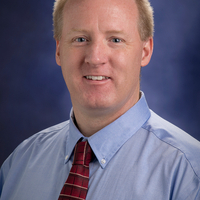
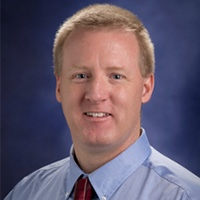
Split speakers and panelists into separate lists and align names with photos
Use two data lists (invited_speakers, panelists) rendered through a shared
speaker-cards include. Render names as h4 so the site's h3 top margin no
longer pushes them below the headshot, and line the letter tops up with
the photo edge. Use Eric Nielsen's uncropped AIAA headshot.

diff --git a/_includes/home-sections.html b/_includes/home-sections.html
@@ -52,19 +52,18 @@
 </div>
 
 ## Invited speakers / panelists
-{% if site.data.people.featured_speakers.size > 0 %}
-<div class="speaker-list">
-{% for speaker in site.data.people.featured_speakers %}
-<div class="speaker">
-{% if speaker.photo and speaker.photo != "" %}<img class="speaker__photo" src="{{ speaker.photo | relative_url }}" alt="Photo of {{ speaker.name | escape }}" width="120" height="120" loading="lazy" decoding="async">{% else %}<div class="speaker__photo speaker__photo--placeholder" aria-hidden="true">{{ speaker.name | split: " " | first | slice: 0 }}{{ speaker.name | split: " " | last | slice: 0 }}</div>{% endif %}
-<div class="speaker__text">
-<h3 class="speaker__name">{{ speaker.name | escape }}</h3>
-<p class="speaker__meta">{% if speaker.role %}<span class="speaker__role">{{ speaker.role | escape }}</span> · {% endif %}{{ speaker.affiliation | escape }}{% if speaker.title %} — {{ speaker.title | escape }}{% endif %}</p>
-{% for para in speaker.bio %}<p class="speaker__bio">{{ para | escape }}</p>
-{% endfor %}</div>
-</div>
-{% endfor %}
-</div>
+{% assign invited = site.data.people.invited_speakers %}{% assign panel = site.data.people.panelists %}
+{% if invited.size > 0 or panel.size > 0 %}
+{% if invited.size > 0 %}
+### Invited speakers
+
+{% include speaker-cards.html speakers=invited %}
+{% endif %}
+{% if panel.size > 0 %}
+### Panelists
+
+{% include speaker-cards.html speakers=panel %}
+{% endif %}
 {% else %}
 **TBD** 
 {% endif %}

diff --git a/assets/main.scss b/assets/main.scss
@@ -335,7 +335,7 @@ html {
   font-size: 0.9em;
 }
 
-/* Invited speakers / panelists — see featured_speakers in _data/people.yml */
+/* Invited speakers / panelists — see invited_speakers and panelists in _data/people.yml */
 .workshop-home .speaker-list {
   margin: 1rem 0 1.5rem;
 }
@@ -377,19 +377,17 @@ html {
   min-width: 0;
 }
 
+/* h4 on purpose: the site's `.post-content h3` rule adds a top margin that pushes the name below the photo. The negative margin lines up the letter tops with the photo's top edge. */
 .workshop-home .speaker__name {
-  margin: 0;
+  margin: -0.25rem 0 0;
   font-size: 1.15rem;
+  font-weight: 600;
   line-height: 1.3;
 }
 
 .workshop-home .speaker__meta {
   margin: 0.15rem 0 0.6rem;
   color: #555;
-}
-
-.workshop-home .speaker__role {
-  font-weight: 600;
 }
 
 .workshop-home .speaker__bio {
@@ -404,6 +402,10 @@ html {
   .workshop-home .speaker {
     flex-direction: column;
     gap: 0.75rem;
+  }
+
+  .workshop-home .speaker__name {
+    margin-top: 0;
   }
 }
 

diff --git a/_includes/speaker-cards.html b/_includes/speaker-cards.html
@@ -1,0 +1,12 @@
+<div class="speaker-list">
+{% for speaker in include.speakers %}
+<div class="speaker">
+{% if speaker.photo and speaker.photo != "" %}<img class="speaker__photo" src="{{ speaker.photo | relative_url }}" alt="Photo of {{ speaker.name | escape }}" width="120" height="120" loading="lazy" decoding="async">{% else %}<div class="speaker__photo speaker__photo--placeholder" aria-hidden="true">{{ speaker.name | split: " " | first | slice: 0 }}{{ speaker.name | split: " " | last | slice: 0 }}</div>{% endif %}
+<div class="speaker__text">
+<h4 class="speaker__name">{{ speaker.name | escape }}</h4>
+<p class="speaker__meta">{{ speaker.affiliation | escape }}{% if speaker.title %} — {{ speaker.title | escape }}{% endif %}</p>
+{% for para in speaker.bio %}<p class="speaker__bio">{{ para | escape }}</p>
+{% endfor %}</div>
+</div>
+{% endfor %}
+</div>

diff --git a/TODO.md b/TODO.md
@@ -8,29 +8,29 @@ Use this list when workshop details are finalized. Edit the referenced files and
 
 **File:** `_data/people.yml`
 
-**What to update:** Under `featured_speakers`, replace the empty list with one entry per speaker or panelist. Each entry can include:
+**What to update:** Add one entry per person under `invited_speakers` (invited talks) or `panelists` (panel). Each is shown as its own list on the page; an empty list is hidden. Each entry can include:
 
 | Field           | Required | Notes |
 |-----------------|----------|--------|
 | `name`          | Yes      | Full name |
 | `affiliation`   | Yes      | Institution or company |
 | `title`         | No       | Optional short line (talk title or position); shown after an em dash |
-| `role`          | No       | Label shown before the affiliation, e.g. `Invited speaker` or `Panelist` |
 | `photo`         | No       | Path to a square headshot, e.g. `/assets/images/speakers/jane-doe.jpg`; without one, an initials placeholder is shown |
 | `bio`           | No       | List of plain-text paragraphs; without one, no bio is shown |
 
 **Example:**
 
 ```yaml
-featured_speakers:
+invited_speakers:
   - name: Jane Doe
     affiliation: Example University
     title: Invited talk — Mixed precision at scale
+panelists:
   - name: John Smith
     affiliation: National Lab (NL)
 ```
 
-**Where it appears:** **Workshop Schedule** section → subsection *Invited speakers / panelists* (`_includes/home-sections.html` reads this list).
+**Where it appears:** the *Invited speakers / panelists* section, as an *Invited speakers* list followed by a *Panelists* list (`_includes/home-sections.html` and `_includes/speaker-cards.html` read these lists).
 
 **Optional (same section):** To adjust session titles or times in the table, edit **`_data/program.yml`** (`intro`, `schedule` rows).
 

diff --git a/README.md b/README.md
@@ -16,7 +16,7 @@ This repository contains the official website for the **High-Accuracy Computing 
 | Schedule, program blurb | `_data/program.yml` |
 | CfP (intro, topics, submission text, proceedings note, portal URL/label) | `_data/submission.yml` |
 | Important dates | `_data/dates.yml` |
-| Organizers, program committee, featured speakers (each speaker can have `role`, `photo`, `bio`) | `_data/people.yml`; speaker photos go in `assets/images/speakers/` |
+| Organizers, program committee, invited speakers and panelists (separate lists; each person can have `photo`, `bio`) | `_data/people.yml`; speaker photos go in `assets/images/speakers/` |
 | People to contact (shown at end of Call for papers) | `_data/contact.yml` — list under `contacts` with `name` and `email` per person; optional legacy `email` if `contacts` is empty |
 | Accepted paper titles/presenters (slot into the `paper:` rows of the schedule) | `_data/accepted-papers.yml` |
 | Nav labels or Venue URL | `_data/nav.yml` |
